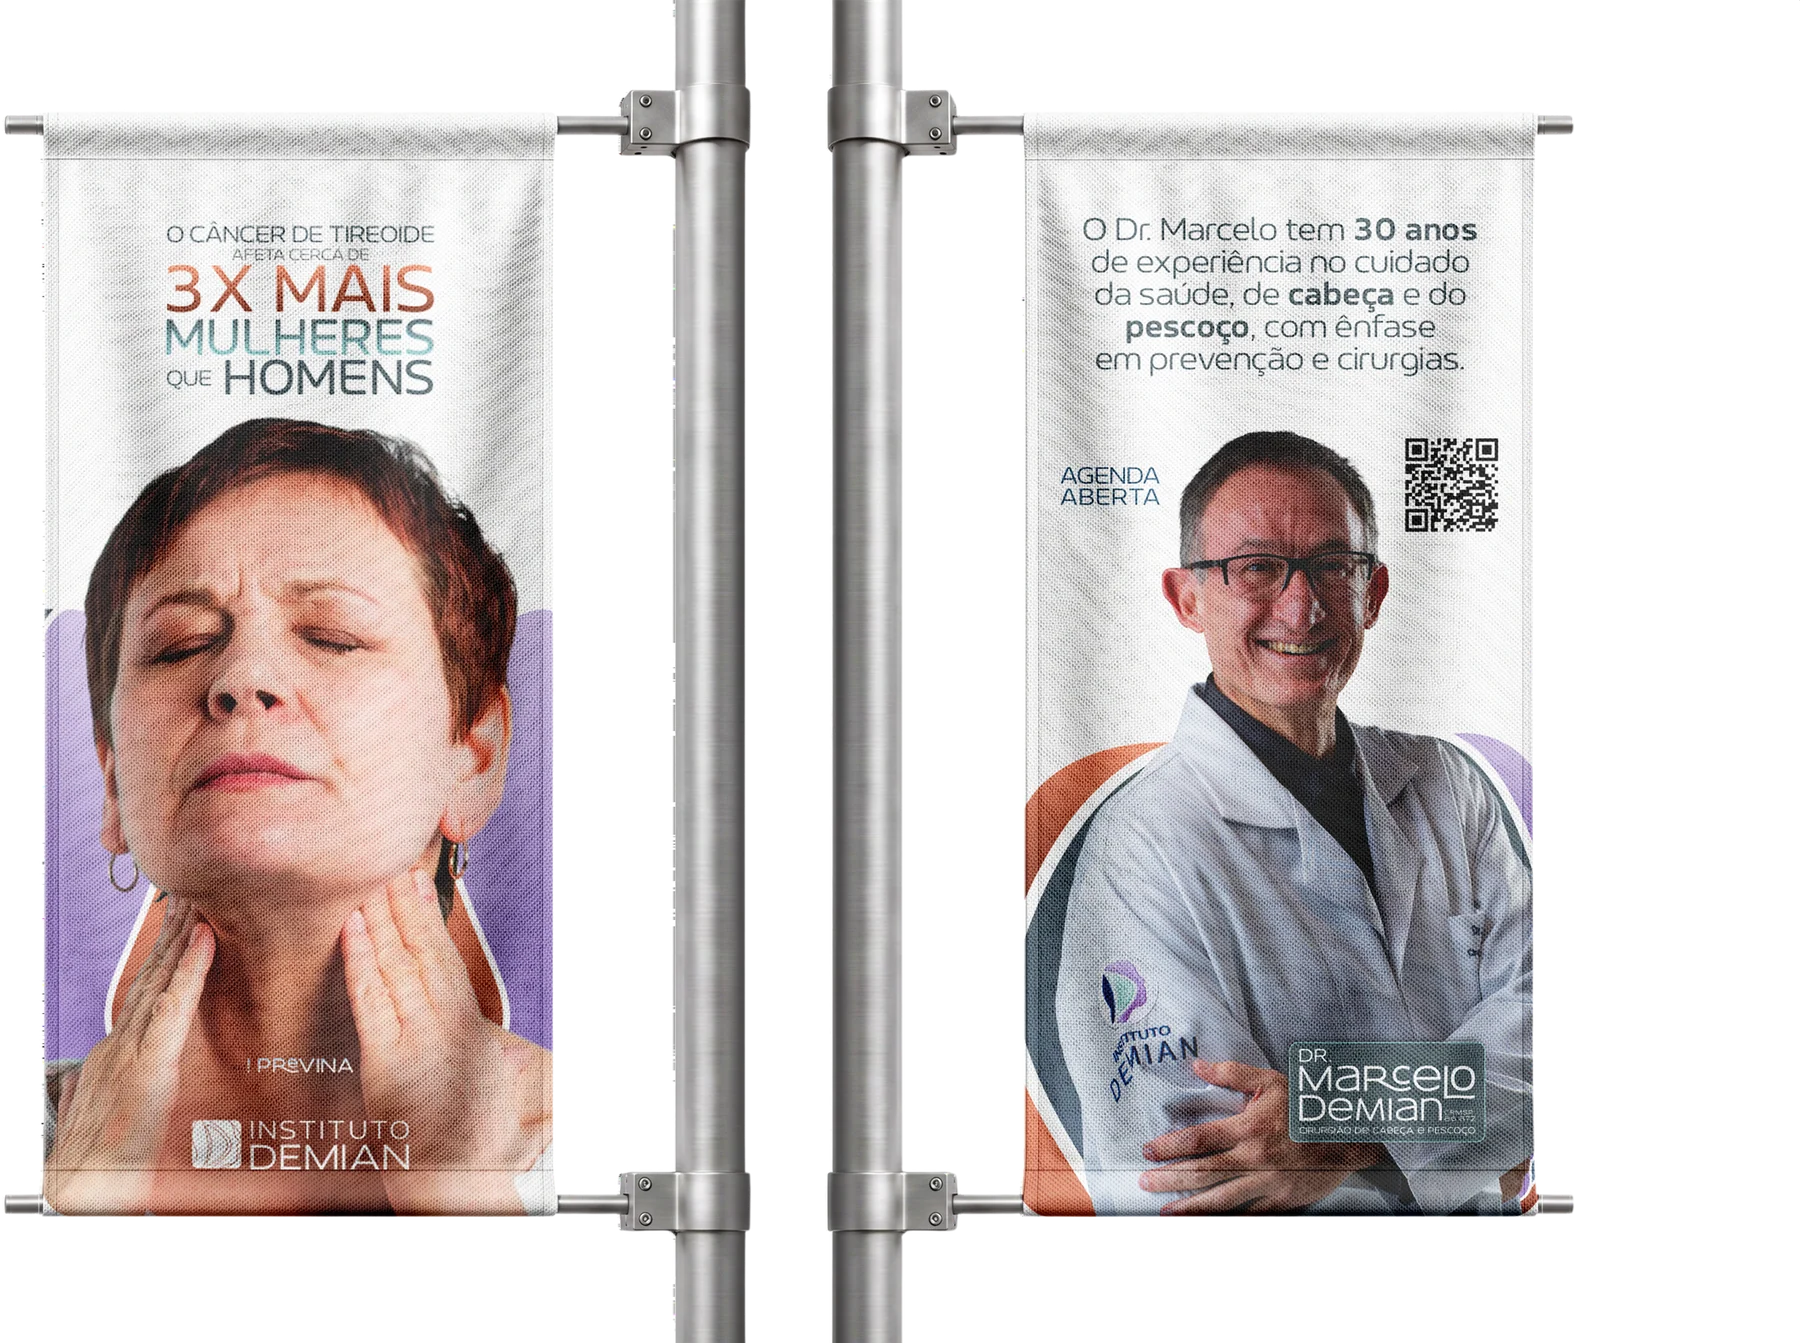
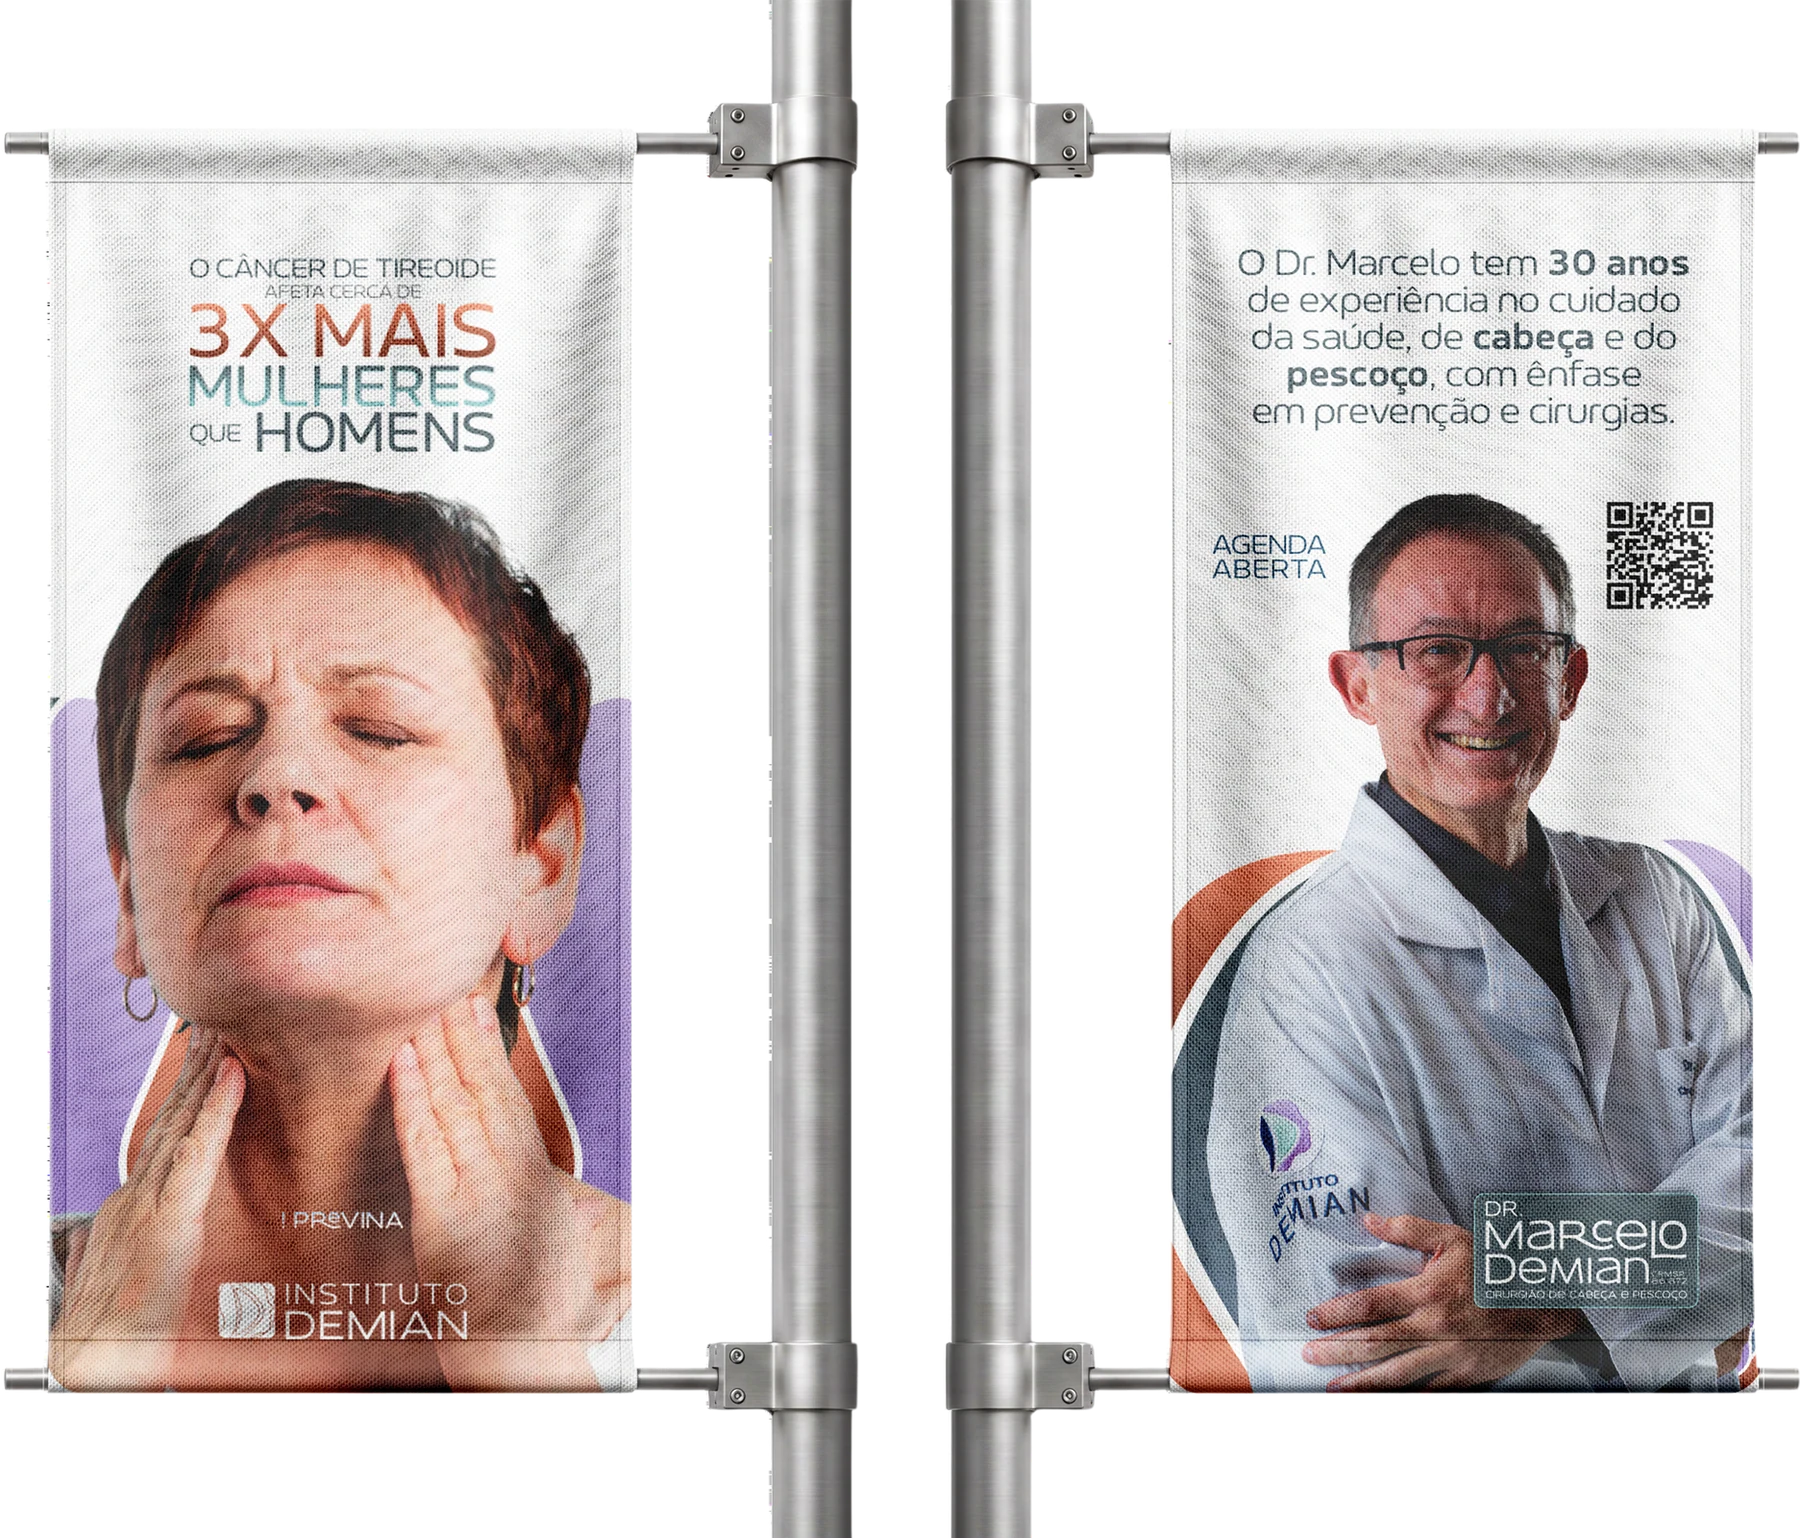
Instituto: faixas centralizadas no bloco
Claude-Session: https://claude.ai/code/session_019tiGbJxSqkJrmK4u3gVAmN

diff --git a/public/case-fx.css b/public/case-fx.css
@@ -986,7 +986,7 @@
 .photos.compact .ph-grid[style*="--ar:1/1"] img{width:82%;height:82%;object-fit:contain;filter:drop-shadow(0 18px 24px rgba(0,0,0,.18))}
 
 /* faixas de poste: os postes encostam no topo e na base do bloco */
-.split .img.poles{background:var(--chip);padding:0;display:block;line-height:0}
-.split .img.poles img{display:block;width:100%;height:auto;max-height:none;object-fit:contain}
+.split .img.poles{background:var(--chip);padding:0;aspect-ratio:4/3;display:flex;justify-content:center;align-items:stretch}
+.split .img.poles img{display:block;height:100%;width:auto;max-width:100%;max-height:none;object-fit:contain;object-position:center}
 /* grade com fundo branco (peças com fundo claro) */
 .photos.compact.white .ph-grid figure{background:#fff;box-shadow:inset 0 0 0 1px var(--line,rgba(0,0,0,.06))}
